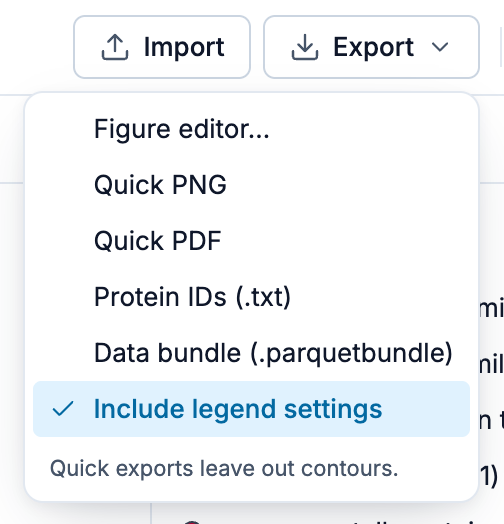
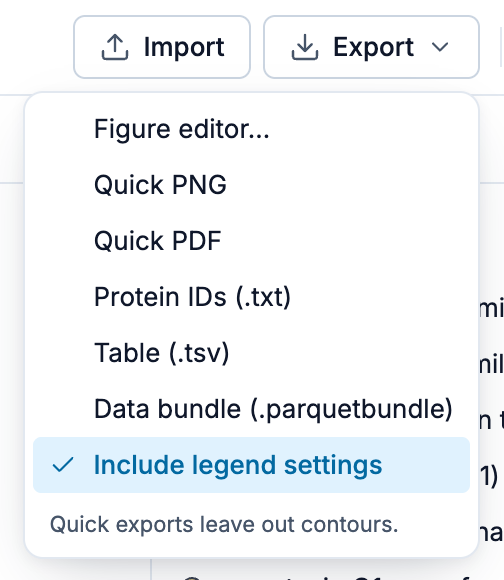
docs(explore): document the Table (.tsv) export in the Export menu

diff --git a/docs/developers/api/index.md b/docs/developers/api/index.md
@@ -535,8 +535,8 @@ Each fires inside the user's click, after the panel has closed: call the data lo
 
 ### Export Menu
 
-A menu named "Export": **Figure editor…**, **Quick PNG**, **Quick PDF**, **Protein IDs (.txt)** and
-**Data bundle (.parquetbundle)**, then an **Include legend settings** checkbox (checked by default;
+A menu named "Export": **Figure editor…**, **Quick PNG**, **Quick PDF**, **Protein IDs (.txt)**,
+**Table (.tsv)** and **Data bundle (.parquetbundle)**, then an **Include legend settings** checkbox (checked by default;
 toggling it keeps the menu open) and the note "Quick exports leave out contours."
 
 | Property          | Type      | Description                                                                     |
@@ -554,7 +554,7 @@ menu from your own control, as the app's phone layout does from More.
 | `export`              | `ExportEventDetail` | A quick export was chosen   |
 | `open-publish-editor` | `{}`                | "Figure editor…" was chosen |
 
-`ExportEventDetail` is `{ type: 'png' | 'pdf' | 'ids' | 'parquet', imageWidth, imageHeight,
+`ExportEventDetail` is `{ type: 'png' | 'pdf' | 'ids' | 'tsv' | 'parquet', imageWidth, imageHeight,
 legendWidthPercent, legendFontSizePx, includeLegend, includeLegendSettings }`; `EXPORT_DEFAULTS`
 holds the default sizes. The quick exports always send `EXPORT_DEFAULTS`' sizes; `includeLegendSettings` is the checkbox.
 

diff --git a/docs/explore/controls.md b/docs/explore/controls.md
@@ -94,7 +94,7 @@ the startup load.
 
 Click **Export** to save your visualization or its data:
 
-![The Export menu open under its button: Figure editor…, Quick PNG, Quick PDF, Protein IDs (.txt) and Data bundle (.parquetbundle)](./images/export-menu.png)
+![The Export menu open under its button: Figure editor…, Quick PNG, Quick PDF, Protein IDs (.txt), Table (.tsv) and Data bundle (.parquetbundle)](./images/export-menu.png)
 
 | Item                             | Saves                                                         |
 | -------------------------------- | ------------------------------------------------------------- |
@@ -102,6 +102,7 @@ Click **Export** to save your visualization or its data:
 | **Quick PNG**                    | A raster image of the current view with legend                |
 | **Quick PDF**                    | A PDF of the current view with legend                         |
 | **Protein IDs (.txt)**           | The visible proteins' identifiers, one per line               |
+| **Table (.tsv)**                 | The visible proteins with their coordinates and annotations   |
 | **Data bundle (.parquetbundle)** | All data and, with **Include legend settings**, your settings |
 
 See [Exporting Results](/explore/exporting) for image options (dimensions, legend size, font) and

diff --git a/docs/explore/exporting.md b/docs/explore/exporting.md
@@ -14,6 +14,7 @@ Click **Export** in the app bar to open its menu (on a phone: **More**, then **E
 | **Quick PNG**                    | Downloads a raster image of the current view with legend         |
 | **Quick PDF**                    | Downloads a PDF of the current view with legend                  |
 | **Protein IDs (.txt)**           | Downloads the visible proteins' identifiers, one per line        |
+| **Table (.tsv)**                 | Downloads the visible proteins as a [table](#table-export)       |
 | **Data bundle (.parquetbundle)** | Downloads a `.parquetbundle` with all data and optional settings |
 
 **Include legend settings**, below them, decides whether a data bundle carries your legend
@@ -115,8 +116,8 @@ in the legend to show it alone, and export.
 
 ## What Gets Exported
 
-The **Protein IDs** export holds exactly the proteins visible in the plot. A protein is left out
-when:
+The **Protein IDs** and **Table** exports hold exactly the proteins visible in the plot. A protein
+is left out when:
 
 - the [filter](/explore/filter) excludes it, the EAT reliability filter included;
 - **Show only these** is on and it is not among the proteins shown;

diff --git a/openspec/changes/explore-workbench/design.md b/openspec/changes/explore-workbench/design.md
@@ -347,7 +347,7 @@ condition in the draft moves the slider only when the draft is applied.
   handles drops and sets an attribute that nothing styles. Drop handling moves to the shell.
 - **Import menu.** The Import button and the dataset name open the same menu: the examples, the last
   imported file, and "Open a file…", with the accepted formats listed.
-- **Export menu.** Figure editor, quick PNG, quick PDF, protein IDs, data bundle. The note that
+- **Export menu.** Figure editor, quick PNG, quick PDF, protein IDs, table (TSV), data bundle. The note that
   contours are not part of quick exports moves from a hover title into the menu.
 - **Figure editor.** Becomes a full-screen `ps-dialog`: Escape closes it, focus is contained, and
   its "Cancel", which already keeps the editor state, is renamed "Close". `publish-modal.ts` is
